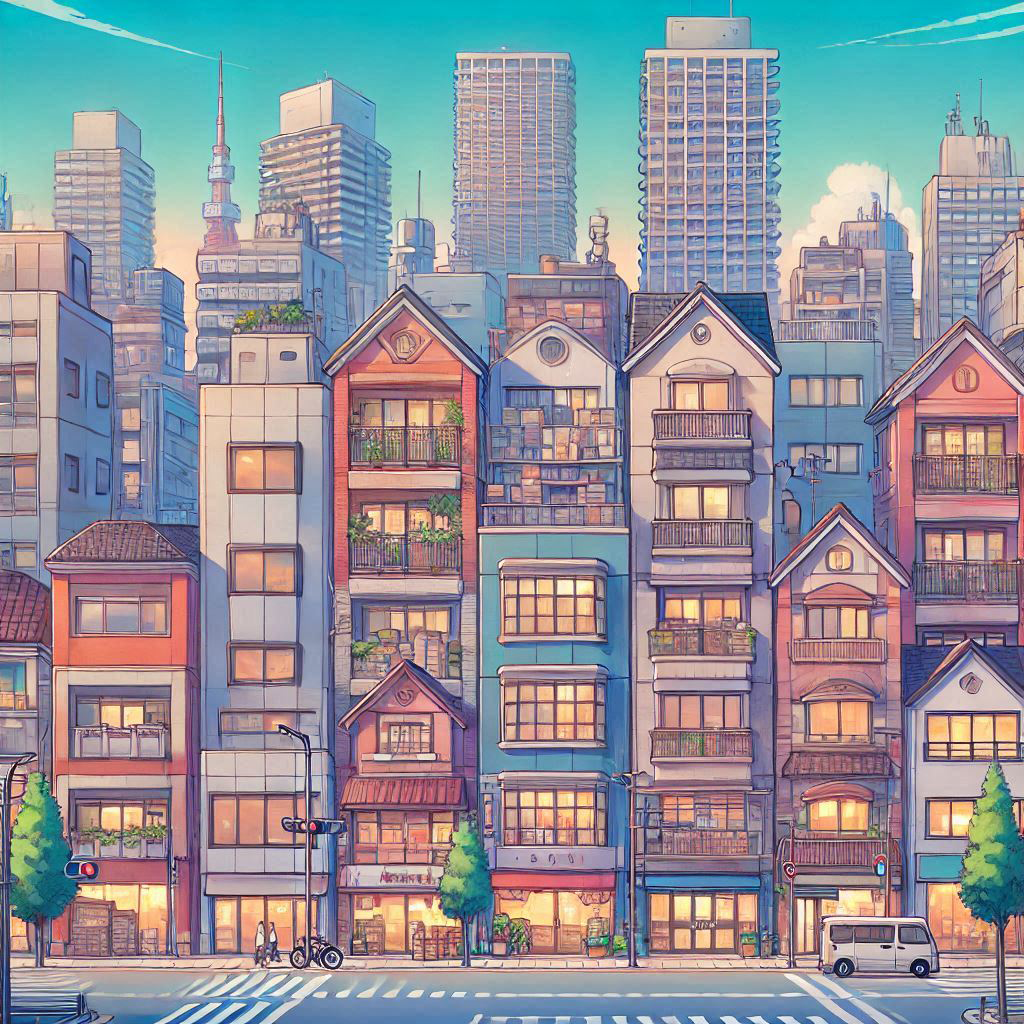
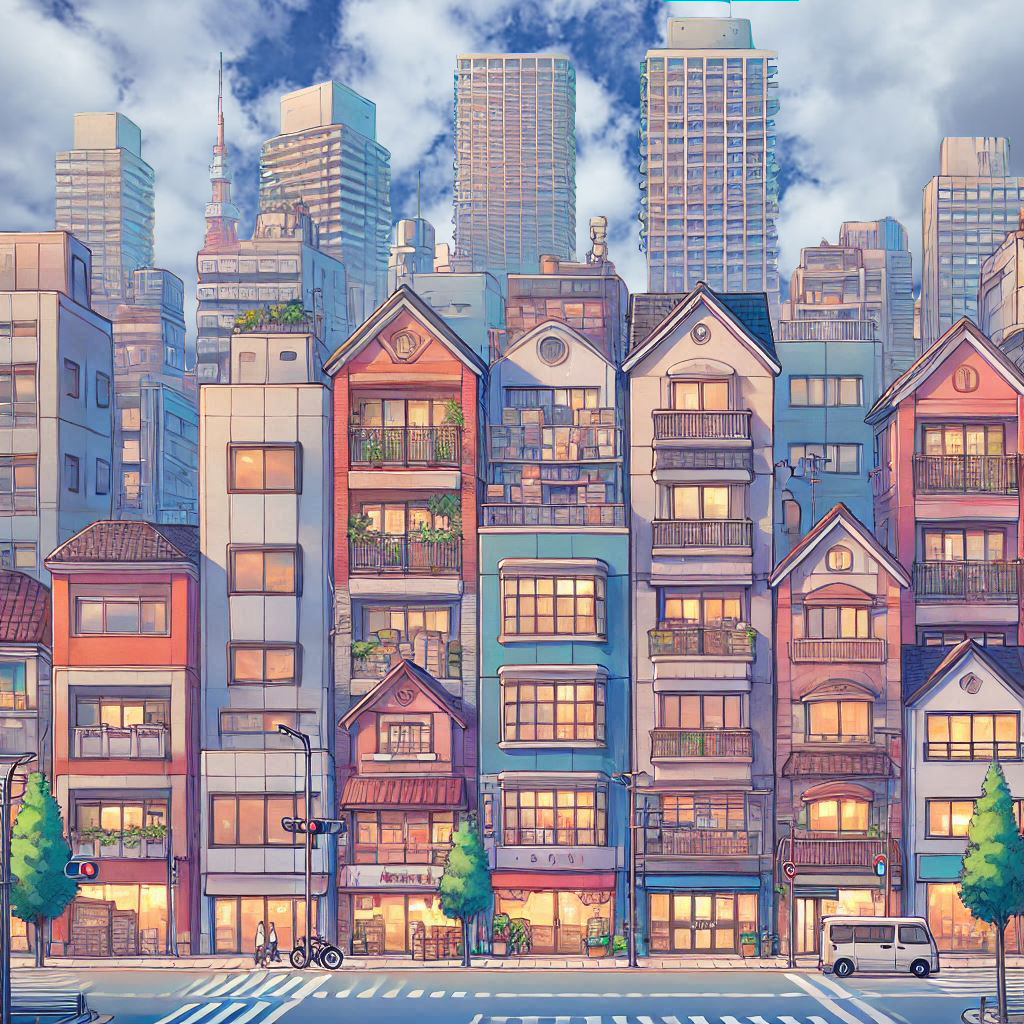
スカイボックス調整とテクスチャ追加

Changed region(s): [[0.0, 0.0, 1.0, 0.375]]

diff --git a/GameSources/happysky.cpp b/GameSources/happysky.cpp
@@ -9,12 +9,12 @@
 
 namespace basecross {
 	const std::map<std::wstring, Vec3> happysky::pairs = {
-		{ L"000_000_000", Vec3(0  ,0,  +0.5f) },
-		{ L"000_090_000", Vec3(+0.5f, 0, 0  ) },
-		{ L"000_180_000", Vec3(0  ,0,  -0.5f) },
-		{ L"000_270_000", Vec3(-0.5f, 0, 0  ) },
+		{ L"000_000_000", Vec3(0  ,0.45f,  +0.5f) },
+		{ L"000_090_000", Vec3(+0.5f, 0.45f, 0  ) },
+		{ L"000_180_000", Vec3(0  ,0.45f,  -0.5f) },
+		{ L"000_270_000", Vec3(-0.5f, 0.45f, 0  ) },
 		{ L"090_000_000", Vec3(0  ,-0.0f,0  ) },
-		{ L"270_000_000", Vec3(0  ,+0.5f,0  ) }
+		{ L"270_000_000", Vec3(0  ,+0.95f,0  ) }
 	};
 	
 	void happysky::OnCreate()
